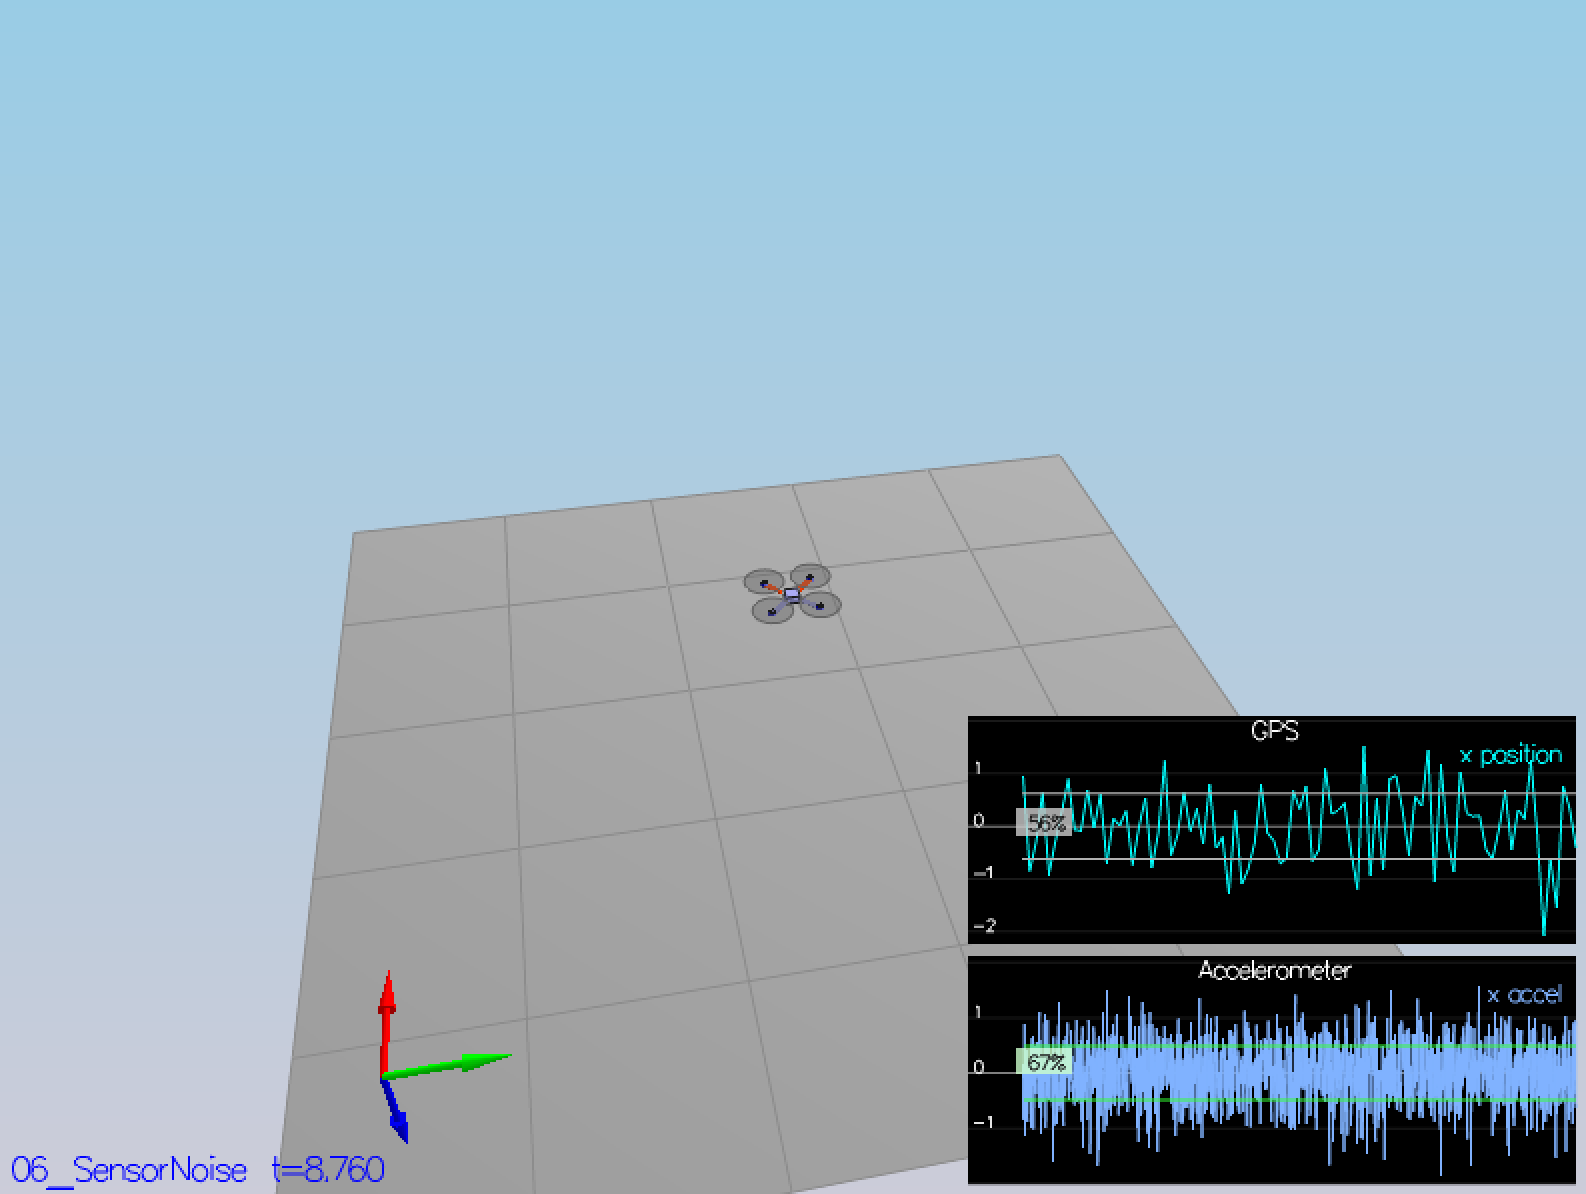
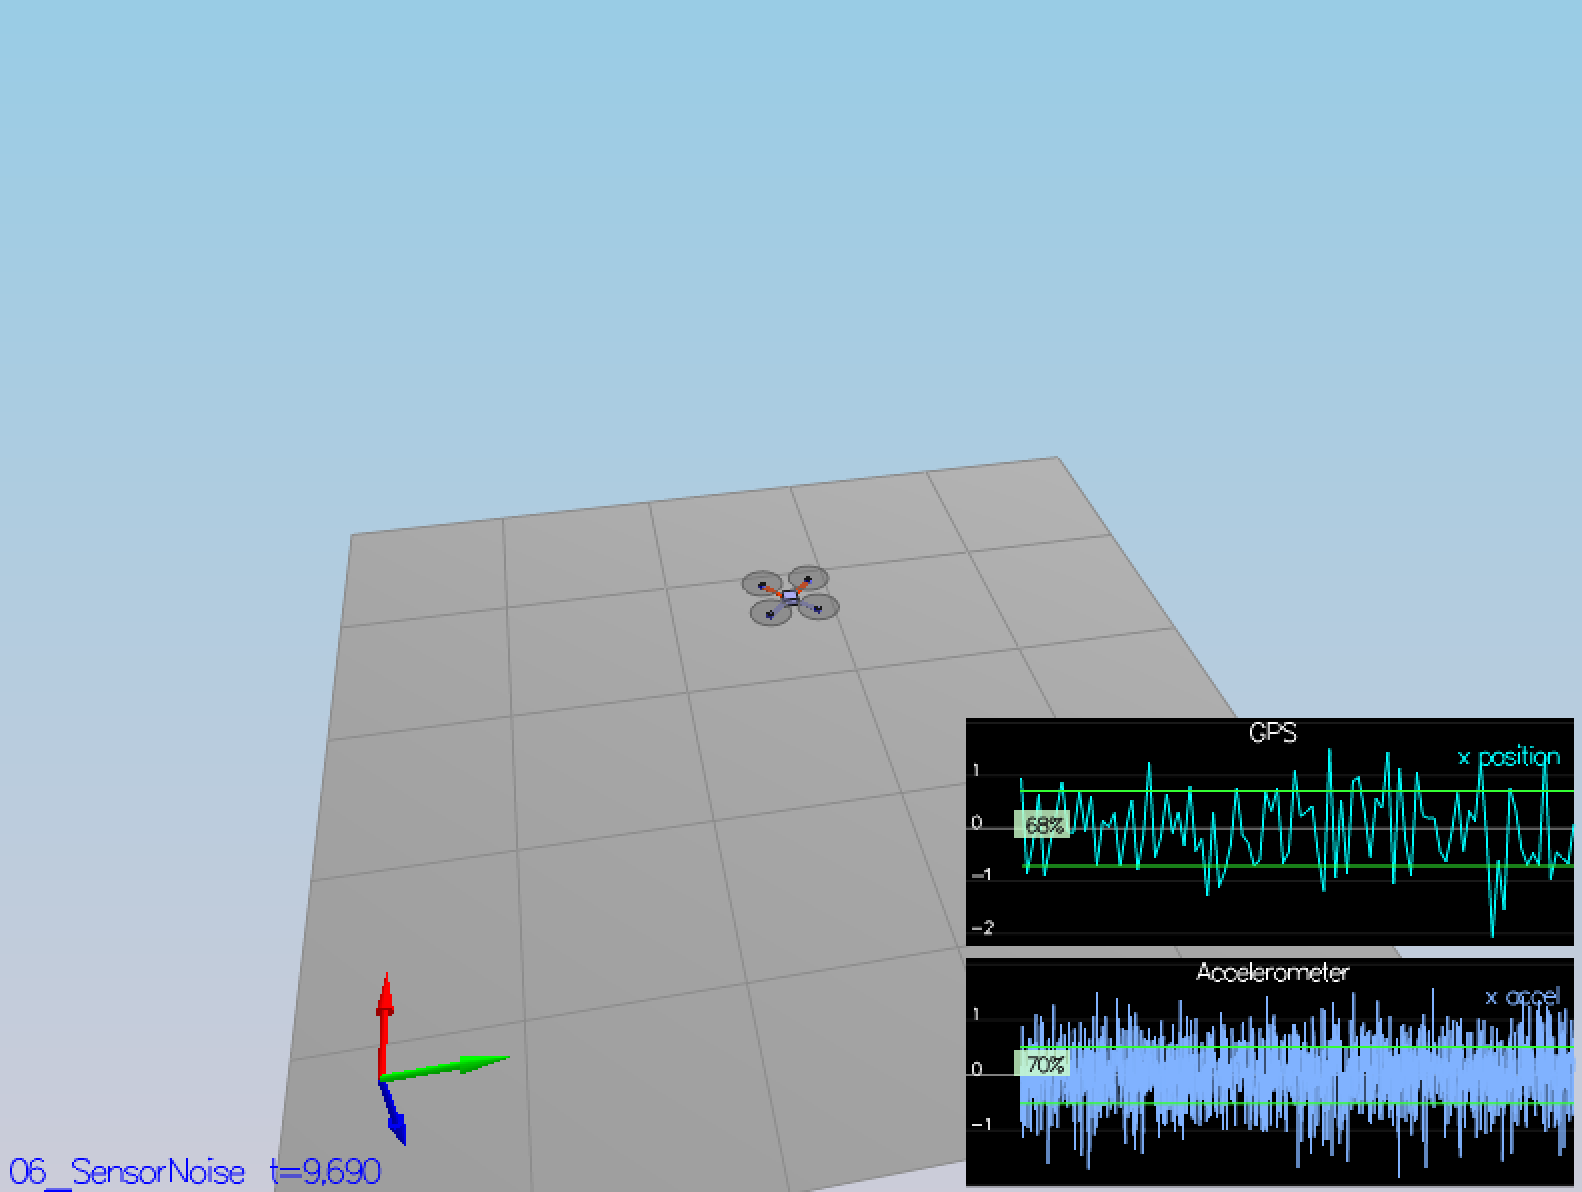
[master] updated the results of 06_SensorNoise. 	modified:   README.md 	modified:   config/06_SensorNoise.txt 	modified:   images/06_SensorNoise.png

diff --git a/README.md b/README.md
@@ -83,8 +83,12 @@ Run the result:
 ```
 # the results will be updated instantly, corresponding to the data grows.
 $ python 06_SensorNoise.py
-Quad.GPS.X std:  0.653741974135
-Quad.IMU.AX std:  0.510304572633
+Quad.GPS.X std:  0.71384784768
+Quad.IMU.AX std:  0.511644801594
+
+$ ./CPPSim
+PASS: ABS(Quad.GPS.X-Quad.Pos.X) was less than MeasuredStdDev_GPSPosXY for 68% of the time
+PASS: ABS(Quad.IMU.AX-0.000000) was less than MeasuredStdDev_AccelXY for 70% of the time
 ```
 
 The figures turn green as shown below:
